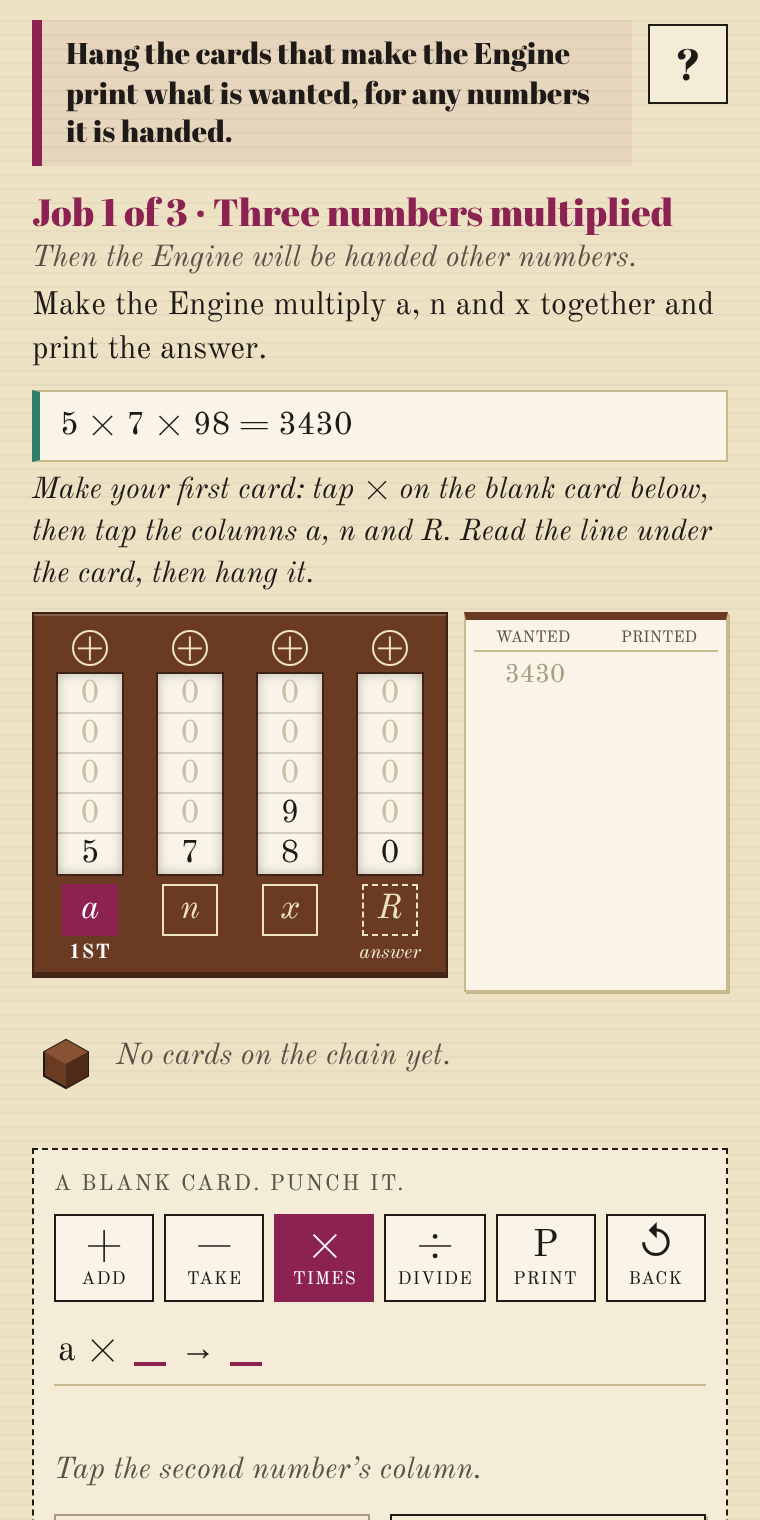
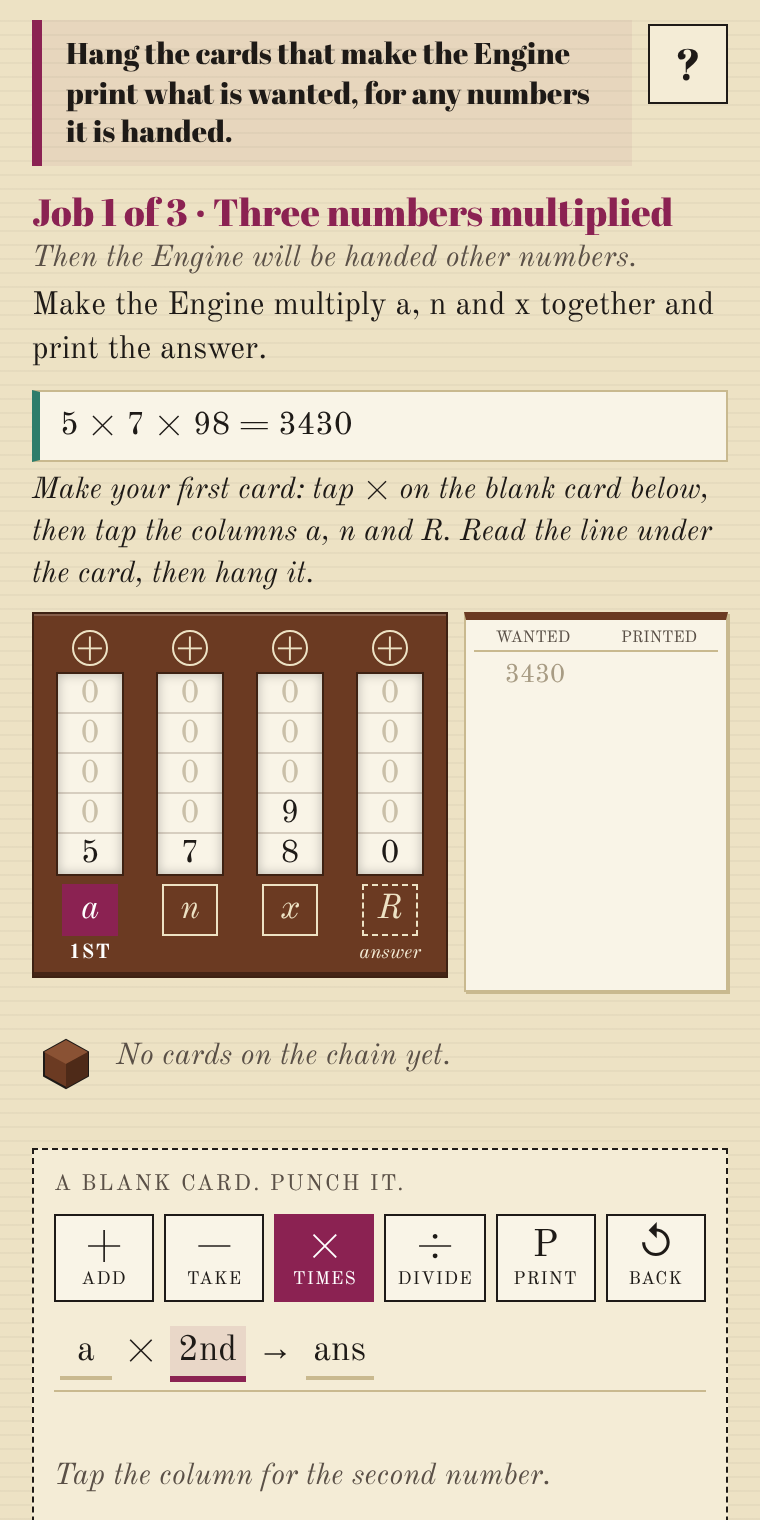
Lovelace's Cards: taps on phones register, and every slot of a card can be chosen
Stop iOS double-tap zoom from swallowing quick column taps; show the card's three slots (1st, 2nd, ans) and let the player tap one to fill or change it; keep the columns when the sign changes; say what to do when a column is tapped before a sign.

Claude-Session: https://claude.ai/code/session_018niUhyXa7Nj3xM1SFAjSo2

diff --git a/lovelace/lovelaces-cards.html b/lovelace/lovelaces-cards.html
@@ -16,6 +16,7 @@
   --disp:'Abril',Georgia,'Times New Roman',serif; --text:'Old','Times New Roman',Georgia,serif;
 }
 *{box-sizing:border-box;-webkit-tap-highlight-color:transparent}
+html,body,button{touch-action:manipulation}
 html,body{margin:0;padding:0;background:var(--buff)}
 body{color:var(--ink);font-family:var(--text);font-size:17px;line-height:1.4;min-height:100vh;
   background-image:repeating-linear-gradient(180deg,rgba(30,26,23,.035) 0 1px,transparent 1px 7px)}
@@ -119,6 +120,8 @@ h3{font-family:var(--disp);font-weight:400;font-size:17px;margin:16px 0 4px;colo
 .counts{display:flex;gap:4px;margin:0 0 8px}
 .counts .punch{min-height:38px;font-size:16px}
 .preview{font-size:18px;min-height:26px;padding:4px 2px;border-bottom:1px solid var(--edge);margin-bottom:6px;font-variant-numeric:tabular-nums}
+.preview .slot{display:inline-block;min-width:26px;padding:0 4px;margin:0 1px;border-bottom:2px solid var(--edge);cursor:pointer;text-align:center}
+.preview .slot.active{border-bottom:3px solid var(--plum);background:rgba(139,34,82,.10)}
 .preview .b{display:inline-block;min-width:16px;border-bottom:2px solid var(--plum);height:18px;vertical-align:-3px;margin:0 2px}
 .guide{font-size:15px;font-style:italic;color:var(--ink2);min-height:22px;margin:0 0 4px}
 .composer .btn{margin:6px 0 0}
@@ -248,7 +251,7 @@ ul{padding-left:20px}li{margin:4px 0}
     <li><b>P</b> (print): tap one column. The Engine writes its number on the strip.</li>
     <li><b>↺</b> (back): choose a number, then tap a column. The Engine goes back that many cards and does them again, as long as that column is not 0. When it reaches 0, the Engine carries on. <span class="ex">BACK 2 WHILE n ≠ 0</span> repeats the two cards above it until n is 0.</li>
   </ul>
-  <p>Under the card you are making, a line says in words what it will do. Tap <b>Hang the card</b> to put it on the chain. Tap a hung card to take it off again.</p>
+  <p>The card being made shows three slots: 1st, 2nd and ans. The pink slot is the one your next column tap fills. To change one, tap that slot, then tap a column. Under the card, a line says in words what it will do. Tap <b>Hang the card</b> to put it on the chain. Tap a hung card to take it off again.</p>
   <button class="btn small-btn" id="helptour">Watch the tour again</button>
   <button class="btn small-btn" id="helpcount">Watch the countdown (the BACK card)</button>
   <h3>Setting it going</h3>
@@ -667,20 +670,23 @@ ul{padding-left:20px}li{margin:4px 0}
   // ---- the composer
   const PUNCHES = [['+', '+', 'add'], ['-', '−', 'take'], ['*', '×', 'times'], ['/', '÷', 'divide'], ['print', 'P', 'print'], ['back', '↺', 'back']];
   function resetComposer() {
-    comp = { kind: null, a: null, b: null, to: null, n: null, test: null };
+    comp = { kind: null, a: null, b: null, to: null, n: null, test: null, active: null };
     const t = task(); const pn = $('punches'); pn.innerHTML = '';
     PUNCHES.forEach(([key, sym, name]) => { const b = document.createElement('button'); b.type = 'button'; b.className = 'punch'; b.dataset.key = key; b.innerHTML = `${sym}<small>${name}</small>`; b.disabled = (key.length === 1 && !t.ops.includes(key)); b.addEventListener('click', () => punch(key)); pn.appendChild(b); });
     const cn = $('counts'); cn.innerHTML = ''; for (let k = 1; k <= C.BACK_MAX; k++) { const b = document.createElement('button'); b.type = 'button'; b.className = 'punch'; b.textContent = k; b.addEventListener('click', () => { comp.n = k; drawComposer(); }); cn.appendChild(b); }
     drawComposer();
   }
-  function punch(key) { if (running || finished || key === comp.kind) return; comp = { kind: key, a: null, b: null, to: null, n: null, test: null }; drawComposer(); }
+  function punch(key) { if (running || finished) return; if (key === comp.kind) return; const keep = comp.kind && comp.kind.length === 1 && key.length === 1; comp = keep ? Object.assign(comp, { kind: key }) : { kind: key, a: null, b: null, to: null, n: null, test: null, active: null }; drawComposer(); }
+  function nextSlot() { return comp.a === null ? 'a' : comp.b === null ? 'b' : comp.to === null ? 'to' : null; }
   function pickCol(i) {
-    if (running || finished || !comp.kind) return;
+    if (running || finished) return;
+    if (!comp.kind) { $('guide').textContent = 'First tap a sign on the blank card (+, −, ×, ÷, P or ↺). Then tap columns.'; return; }
     if (comp.kind === 'print') comp.a = i;
     else if (comp.kind === 'back') comp.test = i;
-    else if (comp.a === null) comp.a = i; else if (comp.b === null) comp.b = i; else if (comp.to === null) comp.to = i; else { comp.a = i; comp.b = null; comp.to = null; }
+    else { const slot = comp.active || nextSlot() || 'to'; comp[slot] = i; comp.active = null; }
     drawComposer();
   }
+  function pickSlot(slot) { if (running || finished) return; comp.active = slot; drawComposer(); }
   function cardOf() {
     if (comp.kind === 'print') return comp.a === null ? null : { k: 'print', a: comp.a };
     if (comp.kind === 'back') return (comp.n === null || comp.test === null) ? null : { k: 'back', n: comp.n, test: comp.test };
@@ -698,14 +704,21 @@ ul{padding-left:20px}li{margin:4px 0}
     if (!comp.kind) { pv = '<span style="color:#A89C84">a blank card</span>'; gd = 'Tap a sign to start a card.'; }
     else if (comp.kind === 'print') { pv = `PRINT ${nm(comp.a)}`; gd = comp.a === null ? 'Now tap the column whose number should be printed.' : 'Hang the card, or tap another column.'; mark(comp.a, 'print'); }
     else if (comp.kind === 'back') { pv = `BACK ${comp.n === null ? '<span class="b"></span>' : comp.n} WHILE ${nm(comp.test)} ≠ 0`; gd = comp.n === null ? 'How many cards back? Tap a number.' : comp.test === null ? 'Now tap the column to watch: the Engine goes back while it is not 0.' : 'Hang the card.'; mark(comp.test, 'watch'); }
-    else { pv = `${nm(comp.a)} ${sign} ${nm(comp.b)} → ${nm(comp.to)}`; gd = comp.a === null ? 'Tap the first number’s column.' : comp.b === null ? 'Tap the second number’s column.' : comp.to === null ? 'Tap the column where the answer goes.' : 'Hang the card, or tap a column to choose the columns again.'; mark(comp.a, '1st'); mark(comp.b, '2nd'); mark(comp.to, 'ans'); }
+    else {
+      const target = comp.active || nextSlot();
+      const sl = (k, label) => `<span class="slot ${target === k ? 'active' : ''}" data-slot="${k}">${comp[k] === null ? label : cols[comp[k]].name}</span>`;
+      pv = `${sl('a', '1st')} ${sign} ${sl('b', '2nd')} → ${sl('to', 'ans')}`;
+      gd = target === 'a' ? 'Tap the column for the first number.' : target === 'b' ? 'Tap the column for the second number.' : target === 'to' ? 'Tap the column where the answer goes.' : 'Ready. Hang the card, or tap a slot on the card above to change it.';
+      mark(comp.a, '1st'); mark(comp.b, '2nd'); mark(comp.to, 'ans');
+    }
     $('preview').innerHTML = pv; $('guide').textContent = gd;
+    $('preview').querySelectorAll('.slot').forEach(e => e.addEventListener('click', () => pickSlot(e.dataset.slot)));
     const card = cardOf(); $('sentence').textContent = card ? 'This card says: ' + M.cardSentence(card, cols) : '';
     $('hangbtn').disabled = !card || g.chain.length >= C.RACK || running || finished;
     if (g.chain.length >= C.RACK && !running && !finished) $('guide').textContent = 'The rack is full: ten cards. Take one off to hang another.';
   }
-  $('hangbtn').addEventListener('click', () => { const card = cardOf(); if (!card || !M.hang(g, card)) return; const kind = comp.kind; comp = { kind, a: null, b: null, to: null, n: comp.n, test: null }; renderChain(); afterEdit(); drawComposer(); });
-  $('clearbtn').addEventListener('click', () => { comp = { kind: null, a: null, b: null, to: null, n: null, test: null }; drawComposer(); });
+  $('hangbtn').addEventListener('click', () => { const card = cardOf(); if (!card || !M.hang(g, card)) return; const kind = comp.kind; comp = { kind, a: null, b: null, to: null, n: comp.n, test: null, active: null }; renderChain(); afterEdit(); drawComposer(); });
+  $('clearbtn').addEventListener('click', () => { comp = { kind: null, a: null, b: null, to: null, n: null, test: null, active: null }; drawComposer(); });
   // ---- the Engine runs
   $('gobtn').addEventListener('click', async () => {
     if (running || finished || !g.chain.length) return;

diff --git a/lovelace/template.html b/lovelace/template.html
@@ -16,6 +16,7 @@
   --disp:'Abril',Georgia,'Times New Roman',serif; --text:'Old','Times New Roman',Georgia,serif;
 }
 *{box-sizing:border-box;-webkit-tap-highlight-color:transparent}
+html,body,button{touch-action:manipulation}
 html,body{margin:0;padding:0;background:var(--buff)}
 body{color:var(--ink);font-family:var(--text);font-size:17px;line-height:1.4;min-height:100vh;
   background-image:repeating-linear-gradient(180deg,rgba(30,26,23,.035) 0 1px,transparent 1px 7px)}
@@ -119,6 +120,8 @@ h3{font-family:var(--disp);font-weight:400;font-size:17px;margin:16px 0 4px;colo
 .counts{display:flex;gap:4px;margin:0 0 8px}
 .counts .punch{min-height:38px;font-size:16px}
 .preview{font-size:18px;min-height:26px;padding:4px 2px;border-bottom:1px solid var(--edge);margin-bottom:6px;font-variant-numeric:tabular-nums}
+.preview .slot{display:inline-block;min-width:26px;padding:0 4px;margin:0 1px;border-bottom:2px solid var(--edge);cursor:pointer;text-align:center}
+.preview .slot.active{border-bottom:3px solid var(--plum);background:rgba(139,34,82,.10)}
 .preview .b{display:inline-block;min-width:16px;border-bottom:2px solid var(--plum);height:18px;vertical-align:-3px;margin:0 2px}
 .guide{font-size:15px;font-style:italic;color:var(--ink2);min-height:22px;margin:0 0 4px}
 .composer .btn{margin:6px 0 0}
@@ -248,7 +251,7 @@ ul{padding-left:20px}li{margin:4px 0}
     <li><b>P</b> (print): tap one column. The Engine writes its number on the strip.</li>
     <li><b>↺</b> (back): choose a number, then tap a column. The Engine goes back that many cards and does them again, as long as that column is not 0. When it reaches 0, the Engine carries on. <span class="ex">BACK 2 WHILE n ≠ 0</span> repeats the two cards above it until n is 0.</li>
   </ul>
-  <p>Under the card you are making, a line says in words what it will do. Tap <b>Hang the card</b> to put it on the chain. Tap a hung card to take it off again.</p>
+  <p>The card being made shows three slots: 1st, 2nd and ans. The pink slot is the one your next column tap fills. To change one, tap that slot, then tap a column. Under the card, a line says in words what it will do. Tap <b>Hang the card</b> to put it on the chain. Tap a hung card to take it off again.</p>
   <button class="btn small-btn" id="helptour">Watch the tour again</button>
   <button class="btn small-btn" id="helpcount">Watch the countdown (the BACK card)</button>
   <h3>Setting it going</h3>
@@ -379,20 +382,23 @@ ul{padding-left:20px}li{margin:4px 0}
   // ---- the composer
   const PUNCHES = [['+', '+', 'add'], ['-', '−', 'take'], ['*', '×', 'times'], ['/', '÷', 'divide'], ['print', 'P', 'print'], ['back', '↺', 'back']];
   function resetComposer() {
-    comp = { kind: null, a: null, b: null, to: null, n: null, test: null };
+    comp = { kind: null, a: null, b: null, to: null, n: null, test: null, active: null };
     const t = task(); const pn = $('punches'); pn.innerHTML = '';
     PUNCHES.forEach(([key, sym, name]) => { const b = document.createElement('button'); b.type = 'button'; b.className = 'punch'; b.dataset.key = key; b.innerHTML = `${sym}<small>${name}</small>`; b.disabled = (key.length === 1 && !t.ops.includes(key)); b.addEventListener('click', () => punch(key)); pn.appendChild(b); });
     const cn = $('counts'); cn.innerHTML = ''; for (let k = 1; k <= C.BACK_MAX; k++) { const b = document.createElement('button'); b.type = 'button'; b.className = 'punch'; b.textContent = k; b.addEventListener('click', () => { comp.n = k; drawComposer(); }); cn.appendChild(b); }
     drawComposer();
   }
-  function punch(key) { if (running || finished || key === comp.kind) return; comp = { kind: key, a: null, b: null, to: null, n: null, test: null }; drawComposer(); }
+  function punch(key) { if (running || finished) return; if (key === comp.kind) return; const keep = comp.kind && comp.kind.length === 1 && key.length === 1; comp = keep ? Object.assign(comp, { kind: key }) : { kind: key, a: null, b: null, to: null, n: null, test: null, active: null }; drawComposer(); }
+  function nextSlot() { return comp.a === null ? 'a' : comp.b === null ? 'b' : comp.to === null ? 'to' : null; }
   function pickCol(i) {
-    if (running || finished || !comp.kind) return;
+    if (running || finished) return;
+    if (!comp.kind) { $('guide').textContent = 'First tap a sign on the blank card (+, −, ×, ÷, P or ↺). Then tap columns.'; return; }
     if (comp.kind === 'print') comp.a = i;
     else if (comp.kind === 'back') comp.test = i;
-    else if (comp.a === null) comp.a = i; else if (comp.b === null) comp.b = i; else if (comp.to === null) comp.to = i; else { comp.a = i; comp.b = null; comp.to = null; }
+    else { const slot = comp.active || nextSlot() || 'to'; comp[slot] = i; comp.active = null; }
     drawComposer();
   }
+  function pickSlot(slot) { if (running || finished) return; comp.active = slot; drawComposer(); }
   function cardOf() {
     if (comp.kind === 'print') return comp.a === null ? null : { k: 'print', a: comp.a };
     if (comp.kind === 'back') return (comp.n === null || comp.test === null) ? null : { k: 'back', n: comp.n, test: comp.test };
@@ -410,14 +416,21 @@ ul{padding-left:20px}li{margin:4px 0}
     if (!comp.kind) { pv = '<span style="color:#A89C84">a blank card</span>'; gd = 'Tap a sign to start a card.'; }
     else if (comp.kind === 'print') { pv = `PRINT ${nm(comp.a)}`; gd = comp.a === null ? 'Now tap the column whose number should be printed.' : 'Hang the card, or tap another column.'; mark(comp.a, 'print'); }
     else if (comp.kind === 'back') { pv = `BACK ${comp.n === null ? '<span class="b"></span>' : comp.n} WHILE ${nm(comp.test)} ≠ 0`; gd = comp.n === null ? 'How many cards back? Tap a number.' : comp.test === null ? 'Now tap the column to watch: the Engine goes back while it is not 0.' : 'Hang the card.'; mark(comp.test, 'watch'); }
-    else { pv = `${nm(comp.a)} ${sign} ${nm(comp.b)} → ${nm(comp.to)}`; gd = comp.a === null ? 'Tap the first number’s column.' : comp.b === null ? 'Tap the second number’s column.' : comp.to === null ? 'Tap the column where the answer goes.' : 'Hang the card, or tap a column to choose the columns again.'; mark(comp.a, '1st'); mark(comp.b, '2nd'); mark(comp.to, 'ans'); }
+    else {
+      const target = comp.active || nextSlot();
+      const sl = (k, label) => `<span class="slot ${target === k ? 'active' : ''}" data-slot="${k}">${comp[k] === null ? label : cols[comp[k]].name}</span>`;
+      pv = `${sl('a', '1st')} ${sign} ${sl('b', '2nd')} → ${sl('to', 'ans')}`;
+      gd = target === 'a' ? 'Tap the column for the first number.' : target === 'b' ? 'Tap the column for the second number.' : target === 'to' ? 'Tap the column where the answer goes.' : 'Ready. Hang the card, or tap a slot on the card above to change it.';
+      mark(comp.a, '1st'); mark(comp.b, '2nd'); mark(comp.to, 'ans');
+    }
     $('preview').innerHTML = pv; $('guide').textContent = gd;
+    $('preview').querySelectorAll('.slot').forEach(e => e.addEventListener('click', () => pickSlot(e.dataset.slot)));
     const card = cardOf(); $('sentence').textContent = card ? 'This card says: ' + M.cardSentence(card, cols) : '';
     $('hangbtn').disabled = !card || g.chain.length >= C.RACK || running || finished;
     if (g.chain.length >= C.RACK && !running && !finished) $('guide').textContent = 'The rack is full: ten cards. Take one off to hang another.';
   }
-  $('hangbtn').addEventListener('click', () => { const card = cardOf(); if (!card || !M.hang(g, card)) return; const kind = comp.kind; comp = { kind, a: null, b: null, to: null, n: comp.n, test: null }; renderChain(); afterEdit(); drawComposer(); });
-  $('clearbtn').addEventListener('click', () => { comp = { kind: null, a: null, b: null, to: null, n: null, test: null }; drawComposer(); });
+  $('hangbtn').addEventListener('click', () => { const card = cardOf(); if (!card || !M.hang(g, card)) return; const kind = comp.kind; comp = { kind, a: null, b: null, to: null, n: comp.n, test: null, active: null }; renderChain(); afterEdit(); drawComposer(); });
+  $('clearbtn').addEventListener('click', () => { comp = { kind: null, a: null, b: null, to: null, n: null, test: null, active: null }; drawComposer(); });
   // ---- the Engine runs
   $('gobtn').addEventListener('click', async () => {
     if (running || finished || !g.chain.length) return;

diff --git a/lovelace/memo.md b/lovelace/memo.md
@@ -180,3 +180,9 @@ The spread is real: the obvious chain passes the visible test and fails the hidd
 - **The verdict leads with a plain line** ("A few cards can do a big job, for any numbers, if one of them says 'go back and do that again'. And the Engine only ever does what the cards tell it.") before the paper's version. Five figure-wheels instead of six; leading zeros faint.
 
 **Checks.** Calibration 33/33: the earlier 29 plus the Countess's chains holding on every job, the tour printing 35, the countdown printing 3 2 1 and passing BACK at 0, and no decimals in any narration or card sentence. Browser session at 380 px through the tour, the countdown mid-job, help and back, both sessions including the hand-over; no errors, no horizontal scroll. Estimated length now about eight minutes. Still builder's review only: whether an eight-year-old gets through job two is the open question, and it needs a child.
+
+## 20. Fix: taps on a phone (1 Nov 2026)
+
+Steffen, on a phone: *I can't choose much in the first screen; whatever I do, it takes just the first option.* Not reproducible in Chromium's iPhone and Pixel emulation, and no WebKit was available to test Safari itself. Two causes in the code fit the report, and both are fixed:
+- **Double-tap zoom.** On iOS Safari two quick taps on a page that allows zooming are read as a zoom gesture, and the second tap is dropped; tapping a, n and R in quick succession could register only a. All buttons and the page now carry `touch-action: manipulation`.
+- **No way to choose a slot.** Once a card's three columns were filled, the next column tap always restarted at the first slot. The card being punched now shows three tappable slots (1st, 2nd, ans); the highlighted one is filled by the next column tap, and tapping a slot selects it for change. Switching the sign keeps the columns. A column tapped before any sign now says to tap a sign first, instead of doing nothing.
